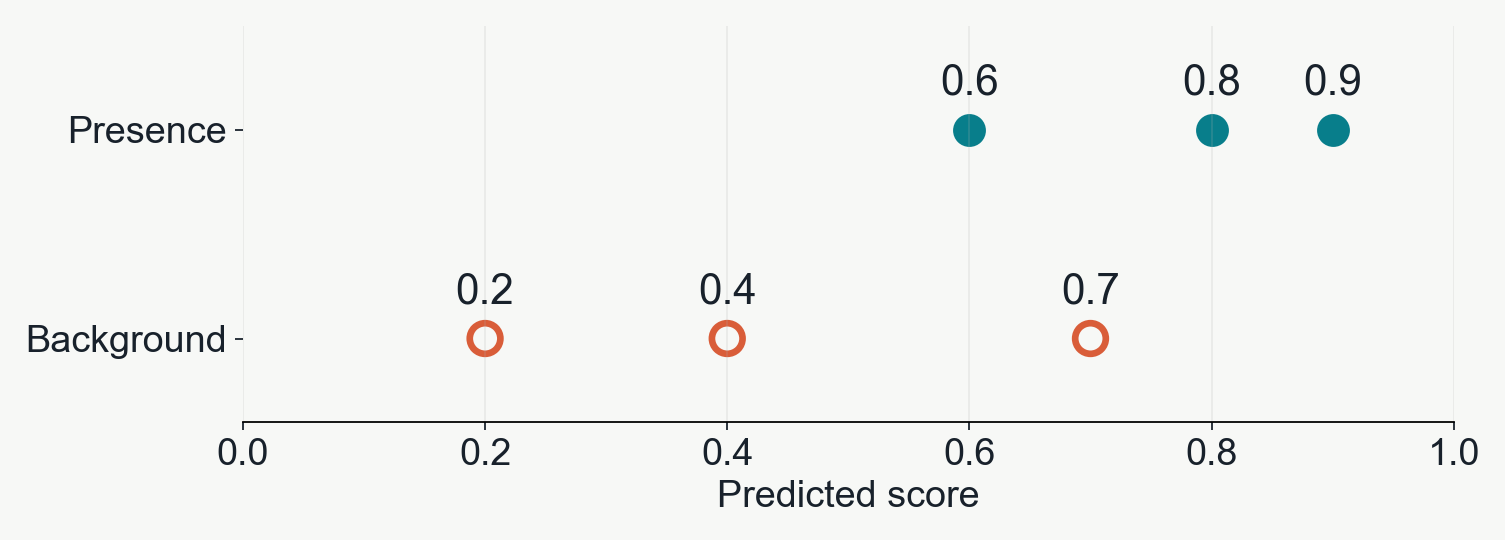
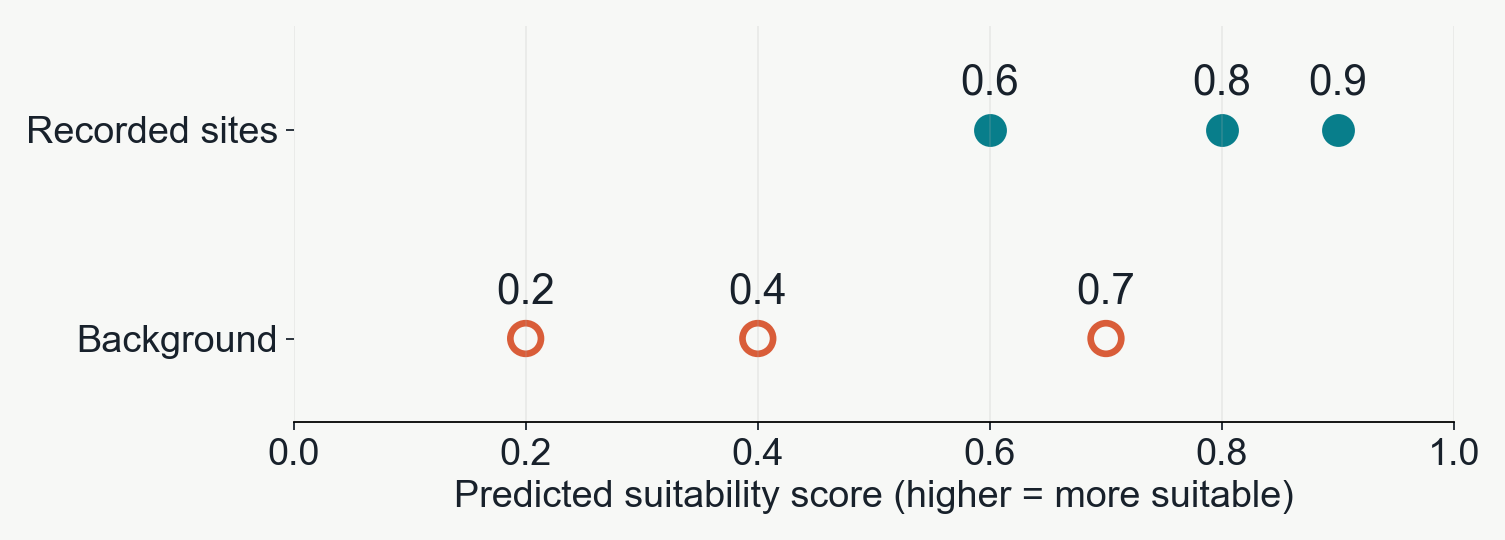
final tweaks for lecture08

diff --git a/docs/lectures/Lecture08-SDM-Software.html b/docs/lectures/Lecture08-SDM-Software.html
@@ -60,7 +60,8 @@ body { background:var(--paper); }
 
 .cover .hero-image { object-fit:contain; }
 .mean-balance .image-wide { height:430px; }
-.auc-scores .image-wide { height:340px; }
+.auc-positive .image-wide { height:390px; }
+.auc-performance .image-wide { height:390px; }
 .reveal .plain-table { font-size:.84em; }
 .reveal .plain-table th,.reveal .plain-table td { padding:20px 16px; }
 .reveal .fold-table td { text-align:center; }
@@ -236,55 +237,23 @@ body { background:var(--paper); }
 <aside class="notes">Timing: 1 minute. This is one actual buffered split from a seeded subset of the Maine modeling points. Distances use projected meters. Buffered leave-one-out asks about prediction away from observed sites and can be computationally expensive when repeated. One held-out presence alone cannot define ROC AUC because it supplies no comparison background group. Any evaluation combining such predictions with background scores needs to describe whether that background was used in fitting; it is not automatically equivalent to holding out both classes. Source: https://earth-chris.github.io/elapid/module/train_test_split/#elapid.train_test_split.BufferedLeaveOneOut.</aside>
 </section>
 
-<section class="auc-scores">
-<div class="kicker">What does the model predict?</div>
-<h2>Each location receives a suitability score</h2>
-<p class="small">A <strong>score</strong> is the model’s predicted suitability for a location.<br>Higher values mean the model considers its climate more suitable.</p>
-<div class="image-wide"><img class="image-chart" src="assets/Lecture08-ranking-scores.png" alt="Six invented model predictions on a suitability scale from zero to one: recorded presences score 0.9, 0.8 and 0.6; background locations score 0.7, 0.4 and 0.2."></div>
-<p class="callout">Do locations with recorded frogs tend to receive higher scores than background locations?</p>
-<p class="caption">Illustrative predictions from 0 to 1. A score of 0.8 does not mean an 80% chance of occurrence.</p>
-<aside class="notes">Timing: 1.5 minutes. Begin with the suitability map shown earlier: each raster cell receives a numerical prediction from the fitted model using that cell’s climate. We can also obtain a prediction for every held-out occurrence and background location. Here score means that model output, not the AUC used to evaluate it. The six invented values will stay the same throughout the next slides. Filled teal points are recorded presences; open coral points are sampled background, where occurrence is unknown. Higher means more suitable under the model. The displayed 0–1 scale is a toy example of transformed suitability output, not the normalized weights in the entropy example, and not an established probability of occupancy. These values are not fitted pickerel-frog results. Source for MaxEnt output interpretation: https://doi.org/10.1111/j.1472-4642.2010.00725.x.</aside>
+<section class="auc-positive">
+<div class="kicker">Evaluating the frog model</div>
+<h2>Which sites does the model call suitable?</h2>
+<div class="image-wide"><img class="image-chart" src="assets/Lecture08-positive-predictions.png" alt="A cutoff at suitability score 0.5 separates predicted unsuitable from predicted suitable sites. Three recorded frogs lie above the cutoff, labeled TP, and one below, labeled FN. One background site lies above the cutoff, labeled FP, and three below, labeled TN."></div>
+<p class="small"><strong>True positives (TP):</strong> recorded frogs predicted suitable — 3 of 4.<br><span class="coral"><b>False positives (FP):</b></span> background sites predicted suitable — 1 of 4.</p>
+<p class="caption">*For presence/background AUC, background serves as the “negative” class. These are not confirmed absences.</p>
+<aside class="notes">Timing: 1.5 minutes. Lead with the figure. Each dot is a location and its horizontal position is the model’s predicted suitability, or score. Higher means more suitable under the model, not a calibrated probability of occurrence. The cutoff turns this continuous prediction into a positive (suitable) or negative (unsuitable) label. At 0.5, three of four recorded frogs qualify: true-positive rate 75%. One of four background sites qualifies: false-positive rate 25%, using background as the negative class. FN means a recorded frog predicted unsuitable, a missed presence. TN means a background site predicted unsuitable. Ask students to imagine sliding the dashed cutoff to the left: more sites qualify, increasing the fractions of true and false positives. This change traces the ROC curve on the next slide. These eight predictions are invented to teach the calculation. With confirmed absence data, a false positive would mean predicting suitable at an observed absence. Here background occupancy is unknown, so “false positive” is a conventional evaluation label, not a demonstrated ecological mistake. Source: https://scikit-learn.org/stable/modules/generated/sklearn.metrics.roc_curve.html.</aside>
 </section>
 
-<section>
-<div class="kicker">Comparing predictions</div>
-<h2>Does a recorded site get the higher score?</h2>
-<p class="small"><strong>Ranking</strong> means ordering sites from higher to lower predicted suitability.<br>A site scoring 0.9 ranks above a site scoring 0.7.</p>
-<table class="rank-table"><thead><tr><th>Recorded-site score</th><th>Background 0.7</th><th>Background 0.4</th><th>Background 0.2</th></tr></thead><tbody>
-<tr><th>0.9</th><td>Higher</td><td>Higher</td><td>Higher</td></tr>
-<tr><th>0.8</th><td>Higher</td><td>Higher</td><td>Higher</td></tr>
-<tr><th>0.6</th><td class="miss">Lower</td><td>Higher</td><td>Higher</td></tr>
-</tbody></table>
-<p class="equation">The recorded site scores higher in <strong>8 of 9 pairs</strong>.<br>This gives <strong>AUC = 8 ÷ 9 ≈ 0.89</strong>.</p>
-<p class="caption">AUC summarizes this ordering: 1 = every pair, 0.5 ≈ chance ordering.</p>
-<aside class="notes">Timing: 1.5 minutes. Read one table cell aloud before scanning the table: compare the recorded site scoring 0.9 with the background site scoring 0.7. The recorded site gets the higher suitability prediction. Repeat for all three backgrounds and all three recorded sites. Only the 0.6 versus 0.7 pair goes the other way. AUC summarizes the probability that a randomly selected presence receives a higher score than a randomly selected background point, giving half credit to ties. Here eight of nine equally weighted pairs succeed, so AUC is 0.89. An AUC below 0.5 means the ordering tends to go the opposite way. We are comparing presences with sampled background, not confirmed absences. Avoid calling a background prediction ecologically wrong, because background may contain occupied sites. Weighted AUC changes each comparison’s contribution; this table illustrates the unweighted case. AUC uses the order of the predictions rather than their absolute distances. Source: https://scikit-learn.org/stable/modules/generated/sklearn.metrics.roc_auc_score.html.</aside>
-</section>
-
-<section>
-<div class="kicker">From continuous predictions to a yes/no map</div>
-<h2>A cutoff decides which sites count as suitable</h2>
-<p class="small">Choose a score as the <strong>cutoff</strong>. Scores at or above it become “predicted suitable.”<br>At cutoff <strong>0.8</strong>, scores 0.9 and 0.8 qualify; 0.7 and lower do not.</p>
-<table class="plain-table"><thead><tr><th>Cutoff</th><th>Recorded sites<br>predicted suitable</th><th>Background sites<br>predicted suitable</th></tr></thead><tbody>
-<tr><td>0.8</td><td>2 of 3 (67%)</td><td>0 of 3 (0%)</td></tr>
-<tr><td>0.5</td><td>3 of 3 (100%)</td><td>1 of 3 (33%)</td></tr>
-<tr><td>0.2</td><td>3 of 3 (100%)</td><td>3 of 3 (100%)</td></tr>
-</tbody></table>
-<p class="callout">A lower cutoff labels more places suitable, including more background sites.</p>
-<p class="caption">The cutoff changes the yes/no labels. It leaves the model’s original suitability scores unchanged.</p>
-<aside class="notes">Timing: 1.5 minutes. The cutoff cuts the continuous suitability scale into two groups; it does not delete data or refit the model. Imagine coloring all raster cells with scores of at least 0.8 as suitable, and the remainder as unsuitable. This is a chosen decision rule, not a discovered biological boundary. Use the same six predictions: presences 0.9, 0.8, 0.6 and background 0.7, 0.4, 0.2. Walk through the 0.8 row, then lower the cutoff to 0.5. We now include all recorded sites, but also the 0.7 background site. At 0.2 every site qualifies. The next slide plots these percentages against each other. Background is not a confirmed absence, so the right column cannot be interpreted as known ecological errors. AUC itself does not require selecting one cutoff. Any practical cutoff chosen using data should be selected within training/validation data, leaving final test data for evaluation. Source: https://scikit-learn.org/stable/modules/generated/sklearn.metrics.roc_curve.html.</aside>
-</section>
-
-<section>
-<div class="kicker">Connecting the table to a curve</div>
-<h2>The ROC curve tries every possible cutoff</h2>
-<div class="two-col narrow-left"><div>
-<p class="question">Each point on the curve represents a cutoff.</p>
-<p class="small">At <strong>0.8</strong>: include 67% of recorded sites and 0% of background.</p>
-<p class="small">At <strong>0.5</strong>: include 100% of recorded sites and 33% of background.</p>
-<p class="small">The shaded <strong>area under the curve (AUC)</strong> is 0.89, matching our 8-of-9 comparison.</p>
-</div><img class="image-side" src="assets/Lecture08-roc-explained.png" alt="ROC curve from the same six predictions. The horizontal axis is the percentage of background predicted suitable; the vertical axis is the percentage of recorded sites predicted suitable. Cutoff 0.8 gives 0% and 67%, and cutoff 0.5 gives 33% and 100%. The shaded area is 0.89."></div>
-<p class="caption">Curves nearer the upper-left corner include more recorded sites while including less background.</p>
-<aside class="notes">Timing: 1.5 minutes. Locate cutoff 0.8 in the previous table and then on the graph: zero background sites qualify, so x is 0%; two of three recorded sites qualify, so y is 67%. Repeat for 0.5: x is 33%, y is 100%. Moving through all possible cutoffs traces the ROC curve. With a finite set of predictions, several cutoffs may produce the same point. ROC stands for receiver operating characteristic; focus on the axes rather than memorizing the name. The diagonal represents chance ordering. The area under this curve equals the pairwise AUC introduced earlier. Percentages on the axes run from 0% to 100%, equivalent to fractions from 0 to 1; the normalized area ranges from 0 to 1. The conventional false-positive rate treats background as the negative label, but background is not confirmed absence. Source: https://scikit-learn.org/stable/auto_examples/model_selection/plot_roc.html.</aside>
+<section class="auc-performance">
+<div class="kicker">Comparing models across all cutoffs</div>
+<h2>Good predictions find frogs with fewer false alarms</h2>
+<div class="image-wide"><img class="image-chart" src="assets/Lecture08-roc-performance.png" alt="Three illustrative ROC panels labeled Good, Medium and Bad (chance), with shaded AUC values 0.95, 0.75 and 0.50. Each plots true-positive rate against false-positive rate. The good curve approaches the upper-left corner, the medium curve bends moderately above the diagonal, and the bad curve follows the chance diagonal."></div>
+<p class="small">Moving the cutoff traces each <strong>ROC curve</strong>. Toward the upper left: more true positives, fewer false positives.</p>
+<p class="callout"><strong>AUC = area under the curve.</strong> Larger areas mean better separation of recorded frogs from background.</p>
+<p class="caption">Illustrative curves, not fitted results. “Good,” “medium” and “bad” describe these examples, not universal AUC thresholds.</p>
+<aside class="notes">Timing: 1.5 minutes. Lead with the three panels. The vertical axis is the fraction of recorded frogs predicted suitable (true-positive rate, TP divided by TP plus FN). The horizontal axis is the fraction of background sites predicted suitable (false-positive rate, FP divided by FP plus TN). Every cutoff supplies one pair of rates. A good curve rises steeply: we recover many frogs before labeling much background suitable. The medium model needs more false positives to recover the same fraction of frogs. The bad example follows the diagonal: its predictions separate recorded sites and background no better than chance. The shaded area summarizes the curve, ranging from zero to one. Perfect separation gives AUC 1; chance ordering gives 0.5; systematically reversed predictions can fall below 0.5. AUC does not mean the percent of sites correctly classified or the probability of finding a frog. These are smooth theoretical curves with analytically known AUCs of 0.95, 0.75 and 0.50, not the course model’s results or universal grading categories. AUC depends on the test locations and sampled background, leading into the next slide’s random/spatial comparison. Background serves as the negative class here, rather than confirmed absences. Reproducible figures: assets/Lecture08-build-figures.py. Source: https://scikit-learn.org/stable/modules/generated/sklearn.metrics.roc_curve.html.</aside>
 </section>
 
 <section>

diff --git a/docs/lectures/assets/Lecture08-build-figures.py b/docs/lectures/assets/Lecture08-build-figures.py
@@ -200,13 +200,68 @@ save(fig,'buffered')
 assert (ela.nearest_point_distance(held,kept)>50_000).all()
 
 # Illustrative scores for explaining ranking and ROC geometry.
+def plot_auc_teaching_figures():
+    # One threshold, with deliberately imperfect predictions for both classes.
+    scores = np.array([.9, .8, .6, .3, .7, .4, .2, .1])
+    observed = np.array([1, 1, 1, 1, 0, 0, 0, 0])
+    positive = scores >= .5
+    assert ((positive & (observed == 1)).sum(),
+            (positive & (observed == 0)).sum()) == (3, 1)
+    fig, ax = plt.subplots(figsize=(12, 3.8))
+    ax.axvline(.5, color=INK, ls='--', lw=2)
+    ax.text(.5, 1.61, 'Cutoff = 0.5', ha='center', fontsize=19)
+    ax.text(.23, 1.36, 'Predicted unsuitable', ha='center', fontsize=18)
+    ax.text(.77, 1.36, 'Predicted suitable', ha='center', fontsize=18)
+    for label, y, color, name in [(1, 1, TEAL, 'Recorded frogs'),
+                                 (0, 0, CORAL, 'Background*')]:
+        mask = observed == label
+        ax.scatter(scores[mask], np.full(mask.sum(), y), s=260,
+                   color=color, zorder=3)
+        for x in scores[mask]:
+            category = ('TP' if x >= .5 else 'FN') if label else ('FP' if x >= .5 else 'TN')
+            ax.text(x, y + .17, category, ha='center', fontsize=18,
+                    color=color, fontweight='bold')
+    ax.set(xlim=(0, 1), ylim=(-.4, 1.78), yticks=[0, 1],
+           yticklabels=['Background*', 'Recorded frogs'],
+           xlabel='Model score = predicted suitability')
+    ax.spines['left'].set_visible(False)
+    ax.tick_params(axis='y', length=0)
+    fig.tight_layout()
+    save(fig, 'positive-predictions')
+
+    # Smooth illustrative ROC curves from equal-variance normal score populations.
+    # Their exact population AUC is Phi(separation / sqrt(2)).
+    from scipy.stats import norm
+    from scipy.integrate import trapezoid
+    fig, axes = plt.subplots(1, 3, figsize=(13.2, 4.1), sharex=True, sharey=True)
+    fpr = np.linspace(0, 1, 10001)
+    for ax, title, auc, color in zip(axes, ['Good', 'Medium', 'Bad (chance)'],
+                                   [.95, .75, .5], [TEAL, CORAL, '#52606d']):
+        separation = np.sqrt(2) * norm.ppf(auc)
+        tpr = norm.cdf(norm.ppf(fpr) + separation)
+        assert abs(trapezoid(tpr, fpr) - auc) < .0001
+        ax.fill_between(fpr, tpr, color=color, alpha=.16)
+        ax.plot(fpr, tpr, color=color, lw=3)
+        ax.plot([0, 1], [0, 1], '--', color=GRAY, lw=1.6)
+        ax.set(title=f'{title}\nAUC = {auc:.2f}', xlim=(0, 1), ylim=(0, 1),
+               xticks=[0, .5, 1], yticks=[0, .5, 1],
+               xlabel='False-positive rate')
+        ax.xaxis.set_major_formatter(matplotlib.ticker.PercentFormatter(xmax=1))
+        ax.yaxis.set_major_formatter(matplotlib.ticker.PercentFormatter(xmax=1))
+        ax.set_aspect('equal')
+    axes[0].set_ylabel('True-positive rate')
+    fig.tight_layout(w_pad=2)
+    save(fig, 'roc-performance')
+
+plot_auc_teaching_figures()
+
 toy_y=np.array([1,1,1,0,0,0]); toy_scores=np.array([.9,.8,.6,.7,.4,.2])
 toy_auc=roc_auc_score(toy_y,toy_scores)
 fig,ax=plt.subplots(figsize=(9.6,3.6))
 ax.scatter(toy_scores[:3],np.ones(3),s=190,color=TEAL)
 ax.scatter(toy_scores[3:],np.zeros(3),s=190,facecolors='none',edgecolors=CORAL,lw=3)
 for x,y0 in zip(toy_scores,toy_y):ax.text(x,y0+.17,f'{x:.1f}',ha='center',fontsize=19)
-ax.set(xlim=(0,1),ylim=(-.4,1.5),yticks=[0,1],yticklabels=['Background','Presence'],xlabel='Predicted score')
+ax.set(xlim=(0,1),ylim=(-.4,1.5),yticks=[0,1],yticklabels=['Background','Recorded sites'],xlabel='Predicted suitability score (higher = more suitable)')
 ax.spines['left'].set_visible(False)
 ax.grid(axis='x',alpha=.2)
 fig.tight_layout();save(fig,'ranking-scores')
@@ -221,7 +276,9 @@ for cutoff,offset in [(.8,(.08,-.13)),(.5,(.12,-.12))]:
     ax.scatter([x],[y],s=80,color=CORAL,zorder=5)
     ax.annotate(f'Cutoff {cutoff:.1f}',(x,y),xytext=(x+offset[0],y+offset[1]),fontsize=16,
         arrowprops={'arrowstyle':'-','color':CORAL})
-ax.set(xlabel='Fraction of background scoring high',ylabel='Fraction of presence scoring high',xlim=(-.025,1.025),ylim=(-.025,1.08))
+ax.set(xlabel='Background predicted suitable',ylabel='Recorded sites predicted suitable',xlim=(-.025,1.025),ylim=(-.025,1.08))
+ax.xaxis.set_major_formatter(matplotlib.ticker.PercentFormatter(xmax=1))
+ax.yaxis.set_major_formatter(matplotlib.ticker.PercentFormatter(xmax=1))
 ax.legend(loc='lower right',fontsize=13)
 save(fig,'roc-explained')
 assert abs(toy_auc-8/9)<1e-12

diff --git a/docs/lectures/assets/Lecture08-artwork-notes.md b/docs/lectures/assets/Lecture08-artwork-notes.md
@@ -22,11 +22,13 @@ All `Lecture08-*.png` figures except `Lecture08-habitat.png` and `Lecture08-mean
 
 The script uses the supplied Maine amphibian occurrences and climate data, elapid 1.0.4, a seeded temperature-biased background, 19 climate predictors and geographic sample weights. The lecture uses *Lithobates palustris*, the pickerel frog. Numeric results, sample sizes and seeds are saved in `Lecture08-example-results.json`. Student results can differ.
 
-Three examples are explicitly illustrative rather than fitted ecological results:
+The following examples are explicitly illustrative rather than fitted ecological results:
 
 - The maximum-entropy example distributes relative weight across four equally available cells at 2, 4, 6 and 8°C, constrained to a weighted mean of 6°C. Its weights sum to one; they are not site occupancy probabilities.
 - The two-dimensional balance example uses four equally available combinations of 2 or 8°C and 800 or 1,200 mm rainfall. The exact maximum-entropy weights are 1/12, 1/6, 1/4 and 1/2, producing means of 6°C and 1,100 mm. The plotted percentages are rounded; circle area is proportional to weight. The coral cross is the weighted center in climate space. These are relative weights, not occupancy probabilities. The example constrains only the two raw means.
 - The ranking/ROC example uses presence scores 0.9, 0.8 and 0.6, and background scores 0.7, 0.4 and 0.2. Eight of nine pairs rank correctly, giving AUC 8/9.
+- The condensed ROC/AUC slides use `Lecture08-positive-predictions.png`: recorded-site scores 0.9, 0.8, 0.6, 0.3 and background scores 0.7, 0.4, 0.2, 0.1. At cutoff 0.5, TP = 3, FN = 1, FP = 1 and TN = 3. Background is the evaluation negative class, not confirmed absence.
+- `Lecture08-roc-performance.png` shows smooth illustrative ROC curves with exact population AUCs 0.95, 0.75 and 0.50. They derive from two equal-variance normal score populations, with mean separations chosen using AUC = Φ(separation / √2). Numerical integration checks the displayed areas. The good/medium/bad labels describe these examples, not general-purpose grading thresholds.
 
 To regenerate the scientific figures from the repository root, use the Lab08 Python environment and run:
 
